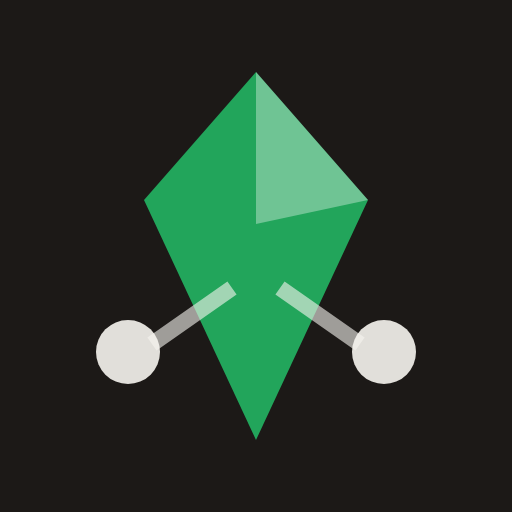
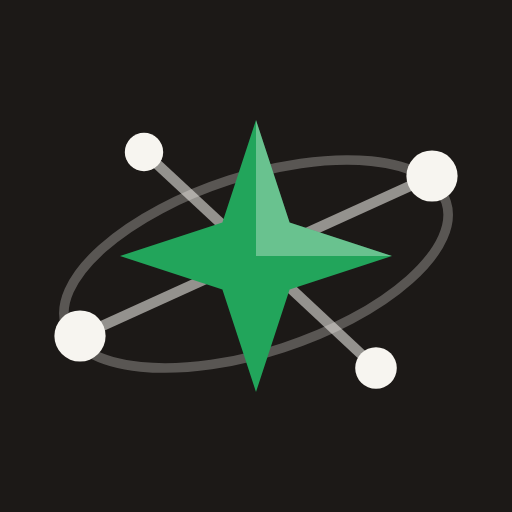
改名 S.T.A.R（Seek · Treasure · Assist · Reconnect）
- app 名字、手机桌面名字、网页标题改成 S.T.A.R
- 登入页和「我」页加上标语 Strong Ties Are Riches 和四个字母的意思
- 新图示：中间一颗星（自己），周围的卫星是人脉、连线是关系、椭圆是轨道
- README / PLAN / DEPLOY 跟着改名

Claude-Session: https://claude.ai/code/session_011Ur8W3gvW2U6izkVs79rY9

Changed region(s): [[0.0938, 0.125, 0.9062, 0.8438]]

diff --git a/network/src/components/Login.jsx b/network/src/components/Login.jsx
@@ -23,8 +23,9 @@ export default function Login() {
       <form onSubmit={submit} className="w-full max-w-sm space-y-5">
         <div className="text-center">
           <Logo className="mx-auto h-14 w-14" />
-          <h1 className="mt-4 text-2xl font-semibold tracking-tight">人脉簿</h1>
-          <p className="mt-1 text-sm text-muted">只有你看得到的人脉资料库</p>
+          <h1 className="mt-4 text-3xl font-semibold tracking-[0.2em]">S.T.A.R</h1>
+          <p className="mt-1 text-sm italic text-muted">Strong Ties Are Riches</p>
+          <MeaningRow className="mt-4" />
         </div>
         <div className="space-y-3 rounded-2xl border border-line bg-white p-4">
           <Field label="邮箱">
@@ -42,15 +43,42 @@ export default function Login() {
   );
 }
 
+/** S.T.A.R 的四个动作：寻找 → 珍惜 → 帮助 → 再联系 */
+export const STAR_WORDS = [
+  { letter: 'S', word: 'Seek', zh: '寻找' },
+  { letter: 'T', word: 'Treasure', zh: '珍惜' },
+  { letter: 'A', word: 'Assist', zh: '帮助' },
+  { letter: 'R', word: 'Reconnect', zh: '再联系' },
+];
+
+export function MeaningRow({ className = '' }) {
+  return (
+    <div className={`grid grid-cols-4 gap-1 ${className}`}>
+      {STAR_WORDS.map((w) => (
+        <div key={w.letter} className="text-center">
+          <div className="text-lg font-semibold text-plum-deep">{w.letter}</div>
+          <div className="text-[11px] font-medium text-ink">{w.word}</div>
+          <div className="text-[11px] text-faint">{w.zh}</div>
+        </div>
+      ))}
+    </div>
+  );
+}
+
+/** 图示：中间一颗星（你），周围的点是人脉，连线 = 关系，椭圆 = 轨道 */
 export function Logo({ className }) {
   return (
-    <svg viewBox="0 0 64 64" className={className} aria-hidden="true">
+    <svg viewBox="0 0 64 64" className={className} role="img" aria-label="S.T.A.R">
       <rect width="64" height="64" rx="16" fill="#1C1917" />
-      <path d="M32 9 L46 25 L32 55 L18 25 Z" fill="#22A55B" />
-      <path d="M32 9 L46 25 L32 28 Z" fill="#fff" opacity=".35" />
-      <circle cx="16" cy="44" r="4" fill="#F7F5F0" opacity=".9" />
-      <circle cx="48" cy="44" r="4" fill="#F7F5F0" opacity=".9" />
-      <path d="M19 43 L29 36 M45 43 L35 36" stroke="#F7F5F0" strokeWidth="2" opacity=".6" />
+      <ellipse cx="32" cy="33" rx="25" ry="11" transform="rotate(-18 32 33)" fill="none" stroke="#F7F5F0" strokeWidth="1.2" opacity=".28" />
+      <g stroke="#F7F5F0" strokeWidth="1.3" opacity=".55">
+        <path d="M32 32 L10 42" /><path d="M32 32 L54 22" /><path d="M32 32 L47 46" /><path d="M32 32 L18 19" />
+      </g>
+      <g fill="#F7F5F0">
+        <circle cx="10" cy="42" r="3.2" /><circle cx="54" cy="22" r="3.2" /><circle cx="47" cy="46" r="2.6" /><circle cx="18" cy="19" r="2.4" />
+      </g>
+      <path d="M32 15 L36.2 27.8 L49 32 L36.2 36.2 L32 49 L27.8 36.2 L15 32 L27.8 27.8 Z" fill="#22A55B" />
+      <path d="M32 15 L36.2 27.8 L32 32 Z M49 32 L36.2 27.8 L32 32 Z" fill="#fff" opacity=".32" />
     </svg>
   );
 }

diff --git a/network/src/components/Settings.jsx b/network/src/components/Settings.jsx
@@ -4,6 +4,7 @@ import { useStore } from '../lib/store.jsx';
 import { supabase } from '../lib/supabase.js';
 import { monthUsage, tierCounts, DEFAULT_PROFILE } from '../lib/logic.js';
 import { Button, Field, Section, Textarea, Input, useToast } from './ui.jsx';
+import { Logo, MeaningRow } from './Login.jsx';
 
 const RATE = Number(import.meta.env.VITE_USD_TO_MYR || 4.4);
 const BUDGET_MYR = Number(import.meta.env.VITE_AI_MONTHLY_BUDGET_MYR || 50);
@@ -29,7 +30,7 @@ export default function Settings() {
     const blob = new Blob([JSON.stringify({ exported_at: new Date().toISOString(), ...store.data }, null, 2)], { type: 'application/json' });
     const a = document.createElement('a');
     a.href = URL.createObjectURL(blob);
-    a.download = `人脉-${new Date().toISOString().slice(0, 10)}.json`;
+    a.download = `STAR-${new Date().toISOString().slice(0, 10)}.json`;
     a.click();
     setTimeout(() => URL.revokeObjectURL(a.href), 1000);
   }
@@ -89,6 +90,13 @@ export default function Settings() {
           {supabase && <Button variant="outline" size="sm" onClick={() => supabase.auth.signOut()}><LogOut className="h-4 w-4" />登出</Button>}
         </div>
       </Section>
+
+      <div className="flex flex-col items-center gap-2 pt-4 text-center">
+        <Logo className="h-10 w-10" />
+        <div className="text-sm font-semibold tracking-[0.2em]">S.T.A.R</div>
+        <div className="text-xs italic text-muted">Strong Ties Are Riches</div>
+        <MeaningRow className="mt-1 w-full max-w-xs" />
+      </div>
     </div>
   );
 }

diff --git a/network/index.html b/network/index.html
@@ -7,14 +7,14 @@
     <meta name="viewport" content="width=device-width, initial-scale=1.0, viewport-fit=cover" />
     <meta name="apple-mobile-web-app-capable" content="yes" />
     <meta name="apple-mobile-web-app-status-bar-style" content="default" />
-    <meta name="apple-mobile-web-app-title" content="人脉簿" />
+    <meta name="apple-mobile-web-app-title" content="S.T.A.R" />
     <meta name="theme-color" content="#F7F5F0" />
     <meta name="color-scheme" content="light" />
     <meta name="robots" content="noindex, nofollow" />
     <link rel="preconnect" href="https://fonts.googleapis.com" />
     <link rel="preconnect" href="https://fonts.gstatic.com" crossorigin />
     <link rel="stylesheet" href="https://fonts.googleapis.com/css2?family=Inter:wght@400;500;600;700&display=swap" />
-    <title>人脉簿</title>
+    <title>S.T.A.R</title>
   </head>
   <body class="h-full bg-paper text-ink antialiased">
     <div id="root" class="h-full"></div>

diff --git a/network/vite.config.js b/network/vite.config.js
@@ -40,9 +40,9 @@ export default defineConfig(({ mode }) => {
         registerType: 'autoUpdate',
         includeAssets: ['icon.svg', 'apple-touch-icon.png'],
         manifest: {
-          name: '人脉簿',
-          short_name: '人脉簿',
-          description: '只有你看得到的人脉资料库：扫名片、AI 评分、关系记录',
+          name: 'S.T.A.R — Seek · Treasure · Assist · Reconnect',
+          short_name: 'S.T.A.R',
+          description: 'Strong Ties Are Riches — 只有你看得到的人脉资料库：扫名片、AI 评分、关系记录',
           theme_color: '#F7F5F0',
           background_color: '#F7F5F0',
           display: 'standalone',

diff --git a/README.md b/README.md
@@ -7,7 +7,7 @@
 > - **Sail CRM** — 销售 / pipeline / 售后管理。代码在 [`/crm`](./crm)，部署指南见 [`crm/DEPLOY.md`](./crm/DEPLOY.md)。
 > - **旧版 UKIR STUDIO**（AI 效果图 / 设计顾问 / Material Board）— 已由上面的新版 UKIR STUDIO 接替（同一网址；Material Board、材质库搬到新版）。代码仍在 [`/render`](./render) 备查 / 回滚。
 > - **CIPTA STUDIO**（by RICCIONE REKA）— 内容工作台：上传一条参考视频 + 你的原片/案例图，拆出配方、排好剪辑方案、写好发布文案。代码在 [`/studio`](./studio)，部署指南见 [`studio/DEPLOY.md`](./studio/DEPLOY.md)，工具调研见 [`studio/RESEARCH.md`](./studio/RESEARCH.md)。
-> - **人脉簿**（只给自己用）— 人脉资料库：扫名片 → AI 识别 → 公司背景 → 「值得认识吗」4 维度评分 →「我能给他什么」。代码在 [`/network`](./network)，计划见 [`network/PLAN.md`](./network/PLAN.md)，部署见 [`network/DEPLOY.md`](./network/DEPLOY.md)。
+> - **S.T.A.R**（Strong Ties Are Riches，只给自己用）— 人脉资料库：扫名片 → AI 识别 → 公司背景 → 「值得认识吗」4 维度评分 →「我能给他什么」。代码在 [`/network`](./network)，计划见 [`network/PLAN.md`](./network/PLAN.md)，部署见 [`network/DEPLOY.md`](./network/DEPLOY.md)。
 > - **RICCIONE REKA JOURNEY** — 客户需求卡 + VISI by RICCIONE REKA（方案与文案生成器）+ 展厅邀请函（纯静态，无需构建）。代码在 [`/invite`](./invite)，说明见 [`invite/README.md`](./invite/README.md)。
 
 ## 功能

diff --git a/network/PLAN.md b/network/PLAN.md
@@ -1,4 +1,8 @@
-# 人脉 App 规划（灵感：康妮《如何结交比你更优秀的人》+ 卡耐基《人性的弱点》）
+# S.T.A.R（人脉 App）规划
+
+> 名字：**S**eek 寻找 · **T**reasure 珍惜 · **A**ssist 帮助 · **R**econnect 再联系 —— Strong Ties Are Riches。灵感来自 Starlink：你是中间的星，人脉是轨道上的卫星。
+
+## 原始规划（灵感：康妮《如何结交比你更优秀的人》+ 卡耐基《人性的弱点》）
 
 ## Context
 Wilson 想要一个**只给自己用**的人脉管理 app，用来记录每个朋友的对话、兴趣、资源、商会、见面次数、合照，然后用 **Sims 4 风格的关系图**告诉他：今天该联系谁、哪段关系在变淡、要找人帮忙时该找谁。另外还有三个功能：名片扫描与"值得认识吗"评分、酷炫的个人名片页（可以接 FoloToy 和 NFC）、半自动 WhatsApp 群发与话术建议。

diff --git a/network/README.md b/network/README.md
@@ -1,6 +1,17 @@
-# 人脉簿
+# S.T.A.R
 
-只给自己用的人脉 app（灵感：康妮《如何结交比你更优秀的人》+ 卡耐基《人性的弱点》）。
+**Strong Ties Are Riches** —— 只给自己用的人脉 app。名字的四个字母就是四个动作：
+
+| | | |
+|---|---|---|
+| **S**eek | 寻找 | 扫名片、认识新的人 |
+| **T**reasure | 珍惜 | 记下他的兴趣、对话、合照 |
+| **A**ssist | 帮助 | 先想「我能给他什么」 |
+| **R**econnect | 再联系 | 提醒今天该找谁（第 3 阶段） |
+
+灵感来自 Starlink：你是中间的星，每个人是一颗卫星，圈层（核心 5 / 重要 15 / 活跃 50 / 认识 150）就是一层层轨道。
+
+方法来自康妮《如何结交比你更优秀的人》和卡耐基《人性的弱点》。
 规划和分阶段计划见 [`PLAN.md`](./PLAN.md)，部署见 [`DEPLOY.md`](./DEPLOY.md)。
 
 ## 第 1 阶段做了什么

diff --git a/network/DEPLOY.md b/network/DEPLOY.md
@@ -1,4 +1,4 @@
-# 人脉簿 · 部署指南（Vercel + Supabase）
+# S.T.A.R · 部署指南（Vercel + Supabase）
 
 大概 20 分钟。照顺序做。
 
